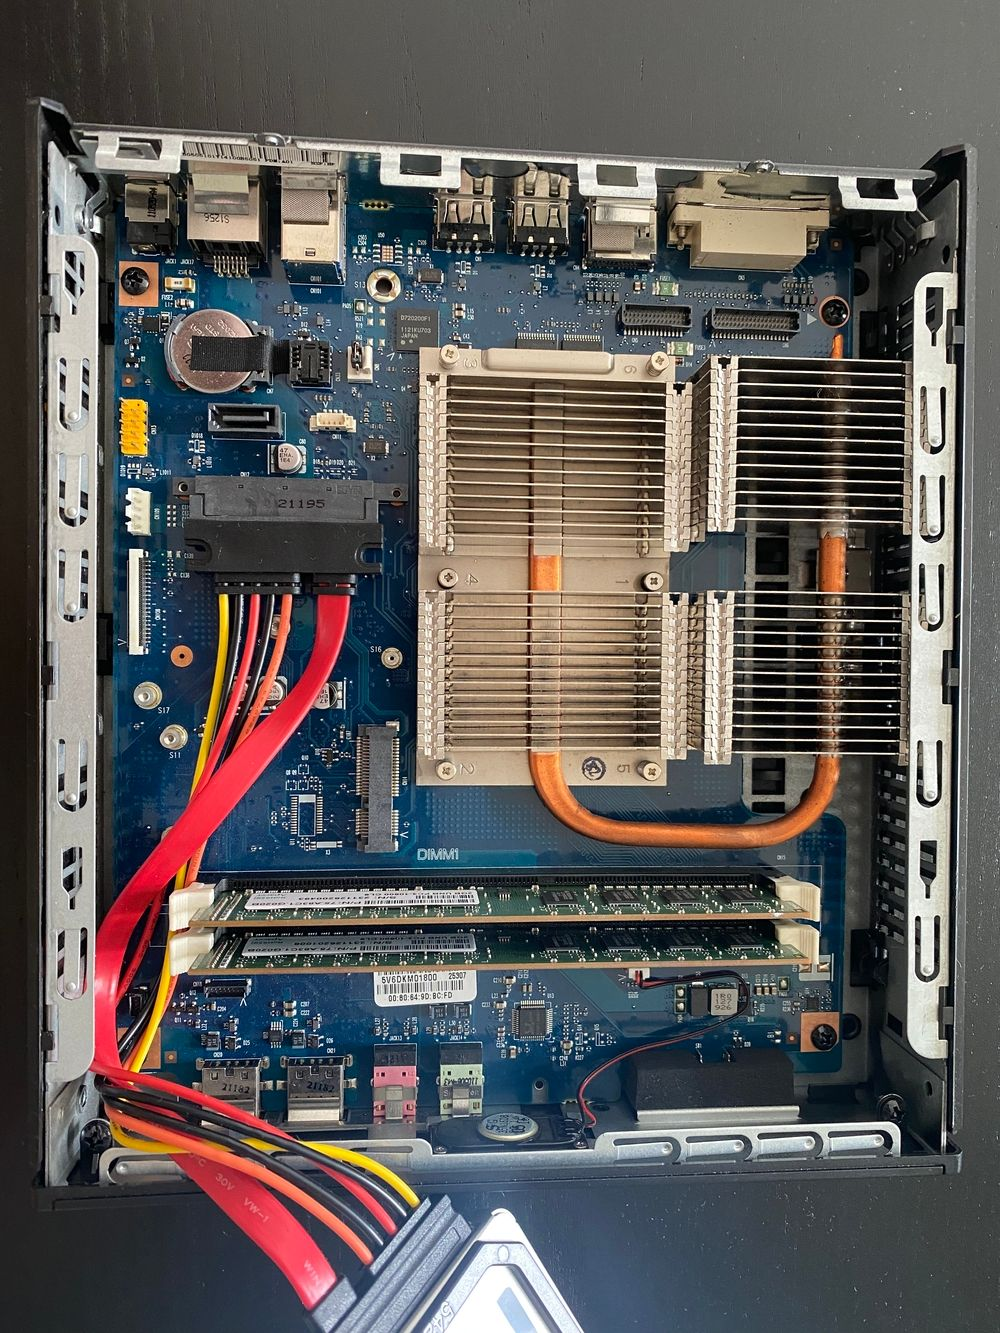
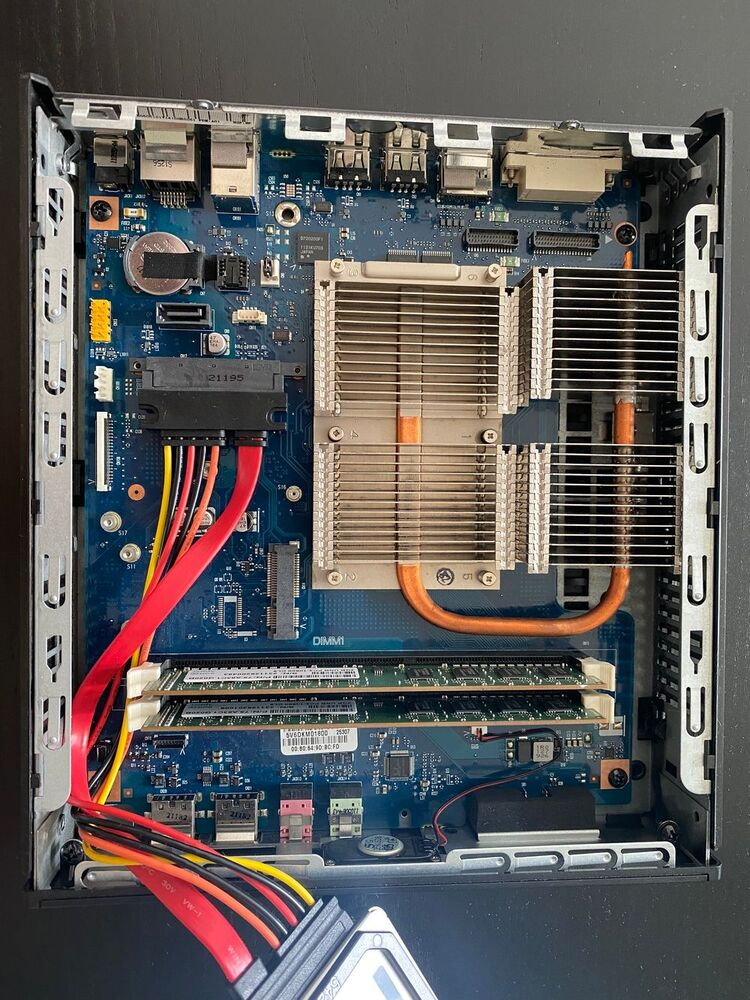
Reduce image sizes and set max-width to images

diff --git a/_site/styles/blogpost.css b/_site/styles/blogpost.css
@@ -1,1 +1,1 @@
-::selection{color:#fff;background-color:brown}::-moz-selection{color:#fff;background-color:brown}*{margin:0;padding:0}body{font-family:Georgia,serif;color:#394655;background:#fffef7}.container{margin:40px 32%}.container blockquote{margin:16px 0;padding:0 1em;color:brown;border-left:.25em solid}a{text-decoration:none;color:brown}a:hover{cursor:pointer;text-decoration:underline}@media(min-width: 320px)and (max-width: 767px){.container{margin:32px 14%}}code[class*=language-],pre[class*=language-]{color:#f8f8f2;background:none;font-family:Consolas,Monaco,"Andale Mono","Ubuntu Mono",monospace;text-align:left;white-space:pre;word-spacing:normal;word-break:normal;word-wrap:normal;line-height:1.5;-moz-tab-size:4;-o-tab-size:4;tab-size:4;-webkit-hyphens:none;-moz-hyphens:none;-ms-hyphens:none;hyphens:none}pre[class*=language-]{padding:1em;margin:.5em 0;overflow:auto;border-radius:.3em}:not(pre)>code[class*=language-],pre[class*=language-]{background:#2b2b2b}:not(pre)>code[class*=language-]{padding:.1em;border-radius:.3em;white-space:normal}.token.comment,.token.prolog,.token.doctype,.token.cdata{color:#d4d0ab}.token.punctuation{color:#fefefe}.token.property,.token.tag,.token.constant,.token.symbol,.token.deleted{color:#ffa07a}.token.boolean,.token.number{color:#00e0e0}.token.selector,.token.attr-name,.token.string,.token.char,.token.builtin,.token.inserted{color:#abe338}.token.operator,.token.entity,.token.url,.language-css .token.string,.style .token.string,.token.variable{color:#00e0e0}.token.atrule,.token.attr-value,.token.function{color:gold}.token.keyword{color:#00e0e0}.token.regex,.token.important{color:gold}.token.important,.token.bold{font-weight:bold}.token.italic{font-style:italic}.token.entity{cursor:help}@media screen and (-ms-high-contrast: active){code[class*=language-],pre[class*=language-]{color:windowText;background:window}:not(pre)>code[class*=language-],pre[class*=language-]{background:window}.token.important{background:highlight;color:window;font-weight:normal}.token.atrule,.token.attr-value,.token.function,.token.keyword,.token.operator,.token.selector{font-weight:bold}.token.attr-value,.token.comment,.token.doctype,.token.function,.token.keyword,.token.operator,.token.property,.token.string{color:highlight}.token.attr-value,.token.url{font-weight:normal}}.post-container{margin-top:32px}.post-container header{margin-bottom:16px}.post-container header .post-date{font-size:14px;color:#585858}.post-container .content{line-height:22px}.post-container .content h2{margin:24px 0 8px;font-weight:normal;line-height:36px}.post-container .content h3{margin:12px 0;line-height:28px}.post-container .content p{margin-bottom:10px}.post-container .content ul{list-style-type:none;margin-left:18px}.post-container .content ul>li::before{content:"–";position:absolute;margin-left:-1.1em}.post-container .back-link{margin:16px 0 24px 0}.post-container code:not([class*=language-]){padding:.2em;padding-top:1px;padding-bottom:1px;background:#f8f8f8;border:1px solid #ddd}iframe{padding:16px 0}
+::selection{color:#fff;background-color:brown}::-moz-selection{color:#fff;background-color:brown}*{margin:0;padding:0}body{font-family:Georgia,serif;color:#394655;background:#fffef7}.container{margin:40px 32%}.container blockquote{margin:16px 0;padding:0 1em;color:brown;border-left:.25em solid}a{text-decoration:none;color:brown}a:hover{cursor:pointer;text-decoration:underline}@media(min-width: 320px)and (max-width: 767px){.container{margin:32px 14%}}code[class*=language-],pre[class*=language-]{color:#f8f8f2;background:none;font-family:Consolas,Monaco,"Andale Mono","Ubuntu Mono",monospace;text-align:left;white-space:pre;word-spacing:normal;word-break:normal;word-wrap:normal;line-height:1.5;-moz-tab-size:4;-o-tab-size:4;tab-size:4;-webkit-hyphens:none;-moz-hyphens:none;-ms-hyphens:none;hyphens:none}pre[class*=language-]{padding:1em;margin:.5em 0;overflow:auto;border-radius:.3em}:not(pre)>code[class*=language-],pre[class*=language-]{background:#2b2b2b}:not(pre)>code[class*=language-]{padding:.1em;border-radius:.3em;white-space:normal}.token.comment,.token.prolog,.token.doctype,.token.cdata{color:#d4d0ab}.token.punctuation{color:#fefefe}.token.property,.token.tag,.token.constant,.token.symbol,.token.deleted{color:#ffa07a}.token.boolean,.token.number{color:#00e0e0}.token.selector,.token.attr-name,.token.string,.token.char,.token.builtin,.token.inserted{color:#abe338}.token.operator,.token.entity,.token.url,.language-css .token.string,.style .token.string,.token.variable{color:#00e0e0}.token.atrule,.token.attr-value,.token.function{color:gold}.token.keyword{color:#00e0e0}.token.regex,.token.important{color:gold}.token.important,.token.bold{font-weight:bold}.token.italic{font-style:italic}.token.entity{cursor:help}@media screen and (-ms-high-contrast: active){code[class*=language-],pre[class*=language-]{color:windowText;background:window}:not(pre)>code[class*=language-],pre[class*=language-]{background:window}.token.important{background:highlight;color:window;font-weight:normal}.token.atrule,.token.attr-value,.token.function,.token.keyword,.token.operator,.token.selector{font-weight:bold}.token.attr-value,.token.comment,.token.doctype,.token.function,.token.keyword,.token.operator,.token.property,.token.string{color:highlight}.token.attr-value,.token.url{font-weight:normal}}.post-container{margin-top:32px}.post-container header{margin-bottom:16px}.post-container header .post-date{font-size:14px;color:#585858}.post-container .content{line-height:22px}.post-container .content h2{margin:24px 0 8px;font-weight:normal;line-height:36px}.post-container .content h3{margin:12px 0;line-height:28px}.post-container .content p{margin-bottom:10px}.post-container .content ul{list-style-type:none;margin-left:18px}.post-container .content ul>li::before{content:"–";position:absolute;margin-left:-1.1em}.post-container .content p img{max-width:100%}.post-container .back-link{margin:16px 0 24px 0}.post-container code:not([class*=language-]){padding:.2em;padding-top:1px;padding-bottom:1px;background:#f8f8f8;border:1px solid #ddd}iframe{padding:16px 0}

diff --git a/styles/blogpost.scss b/styles/blogpost.scss
@@ -38,6 +38,10 @@
         margin-left: -1.1em;
       }
     }
+
+    p img {
+      max-width: 100%;
+    }
   }
 
   .back-link {
